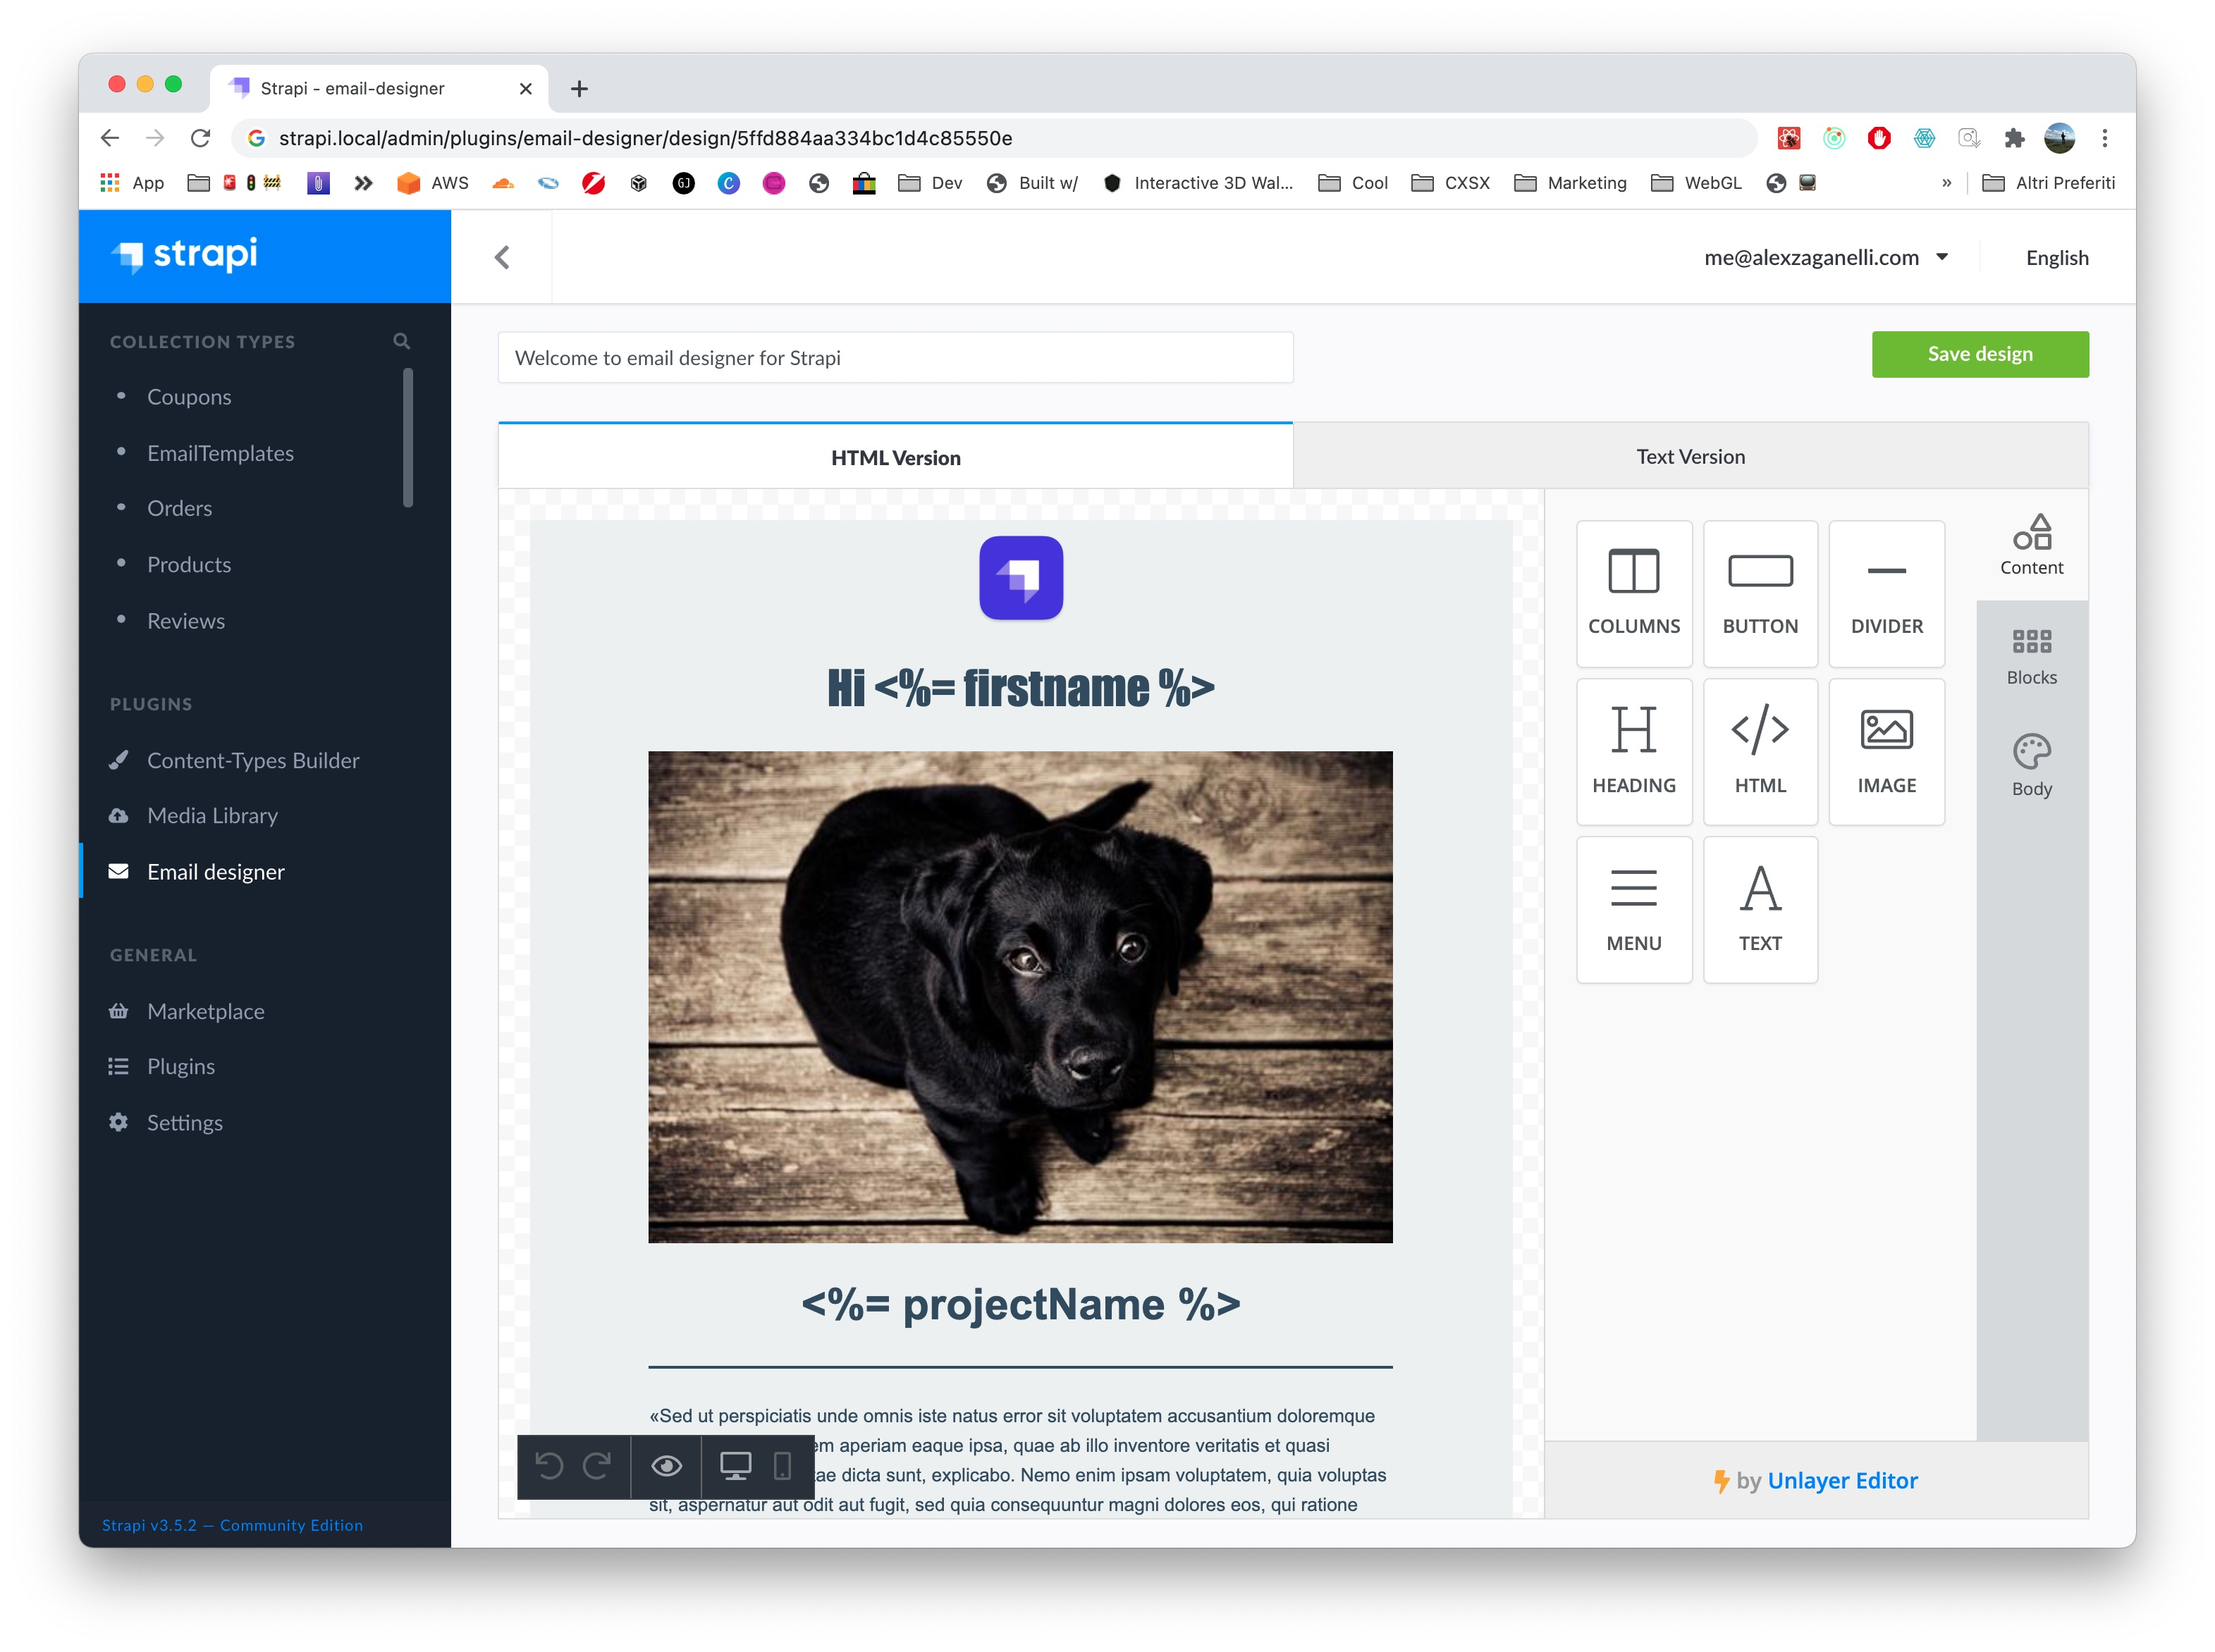
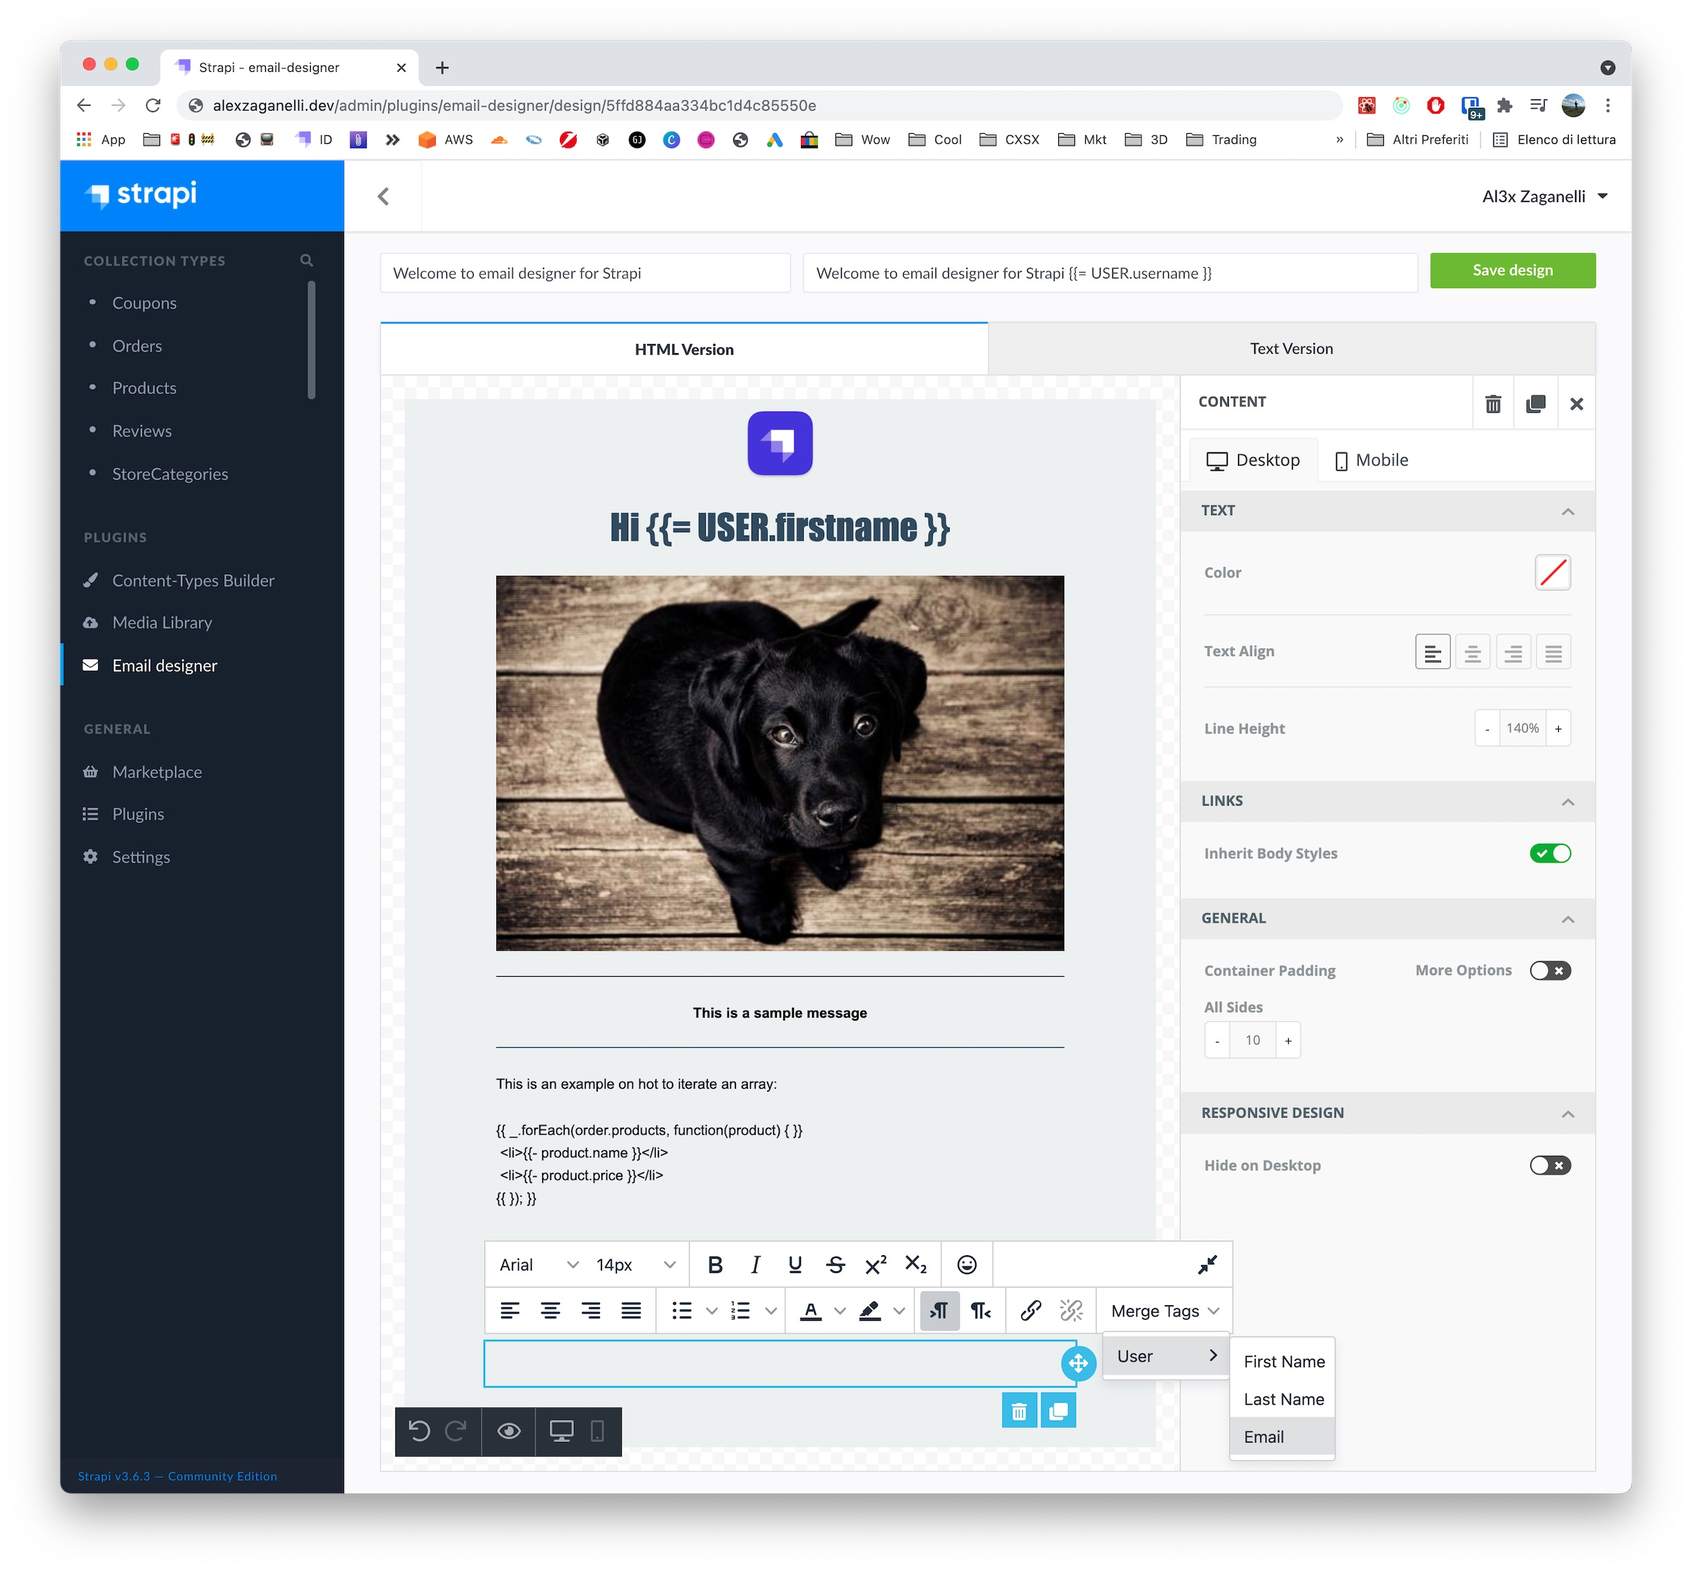
🔖 1.1.1

diff --git a/admin/src/containers/Designer/index.js b/admin/src/containers/Designer/index.js
@@ -167,13 +167,13 @@ const EmailDesigner = ({ isCore = false }) => {
 
       if (isMounted.current && editorConfigApi) {
         if (editorConfigApi.tools) {
-          setEditorTools((state) => merge(state, editorConfigApi.tools));
+          setEditorTools((state) => merge({}, state, editorConfigApi.tools));
         }
         if (editorConfigApi.options) {
-          setEditorOptions((state) => merge(state, editorConfigApi.options));
+          setEditorOptions((state) => merge({}, state, editorConfigApi.options));
         }
         if (editorConfigApi.appearance) {
-          setEditorAppearance((state) => merge(state, editorConfigApi.appearance));
+          setEditorAppearance((state) => merge({}, state, editorConfigApi.appearance));
         }
       }
 

diff --git a/README.md b/README.md
@@ -80,7 +80,7 @@ The **Email Designer** plugin should appear in the **Plugins** section of Strapi
 
 ## 💄 Usage
 
-1. Design your template with easy on the visual composer. For variables use [lodash templating language](https://lodash.com/docs/4.17.15#template). **You can leave the text version blank to automatically generate a text version of your email from the HTML version.**
+1. Design your template with easy on the visual composer. For variables use [lodash templating language](https://lodash.com/docs/4.17.15#template) with the double curly braces tags ( `{{` and `}}` ). **You can leave the text version blank to automatically generate a text version of your email from the HTML version.**
 
 Tips: in the template's body is possible to iterate array like this:
 
@@ -103,6 +103,7 @@ Tips: in the template's body is possible to iterate array like this:
         to: 'to@example.com', // required
         from: 'from@example.com', // optional if /config/plugins.js -> email.settings.defaultFrom is set
         replyTo: 'reply@example.com', // optional if /config/plugins.js -> email.settings.defaultReplyTo is set
+        attachments: [], // optional array of files
       },
       {
         templateId: 1, // required - you can get the template id from the admin panel
@@ -110,9 +111,9 @@ Tips: in the template's body is possible to iterate array like this:
       },
       {
         // this object must include all variables you're using in your email template
-        user: {
-          firstName: 'John',
-          lastName: 'Doe',
+        USER: {
+          firstname: 'John',
+          lastname: 'Doe',
         },
         order: {
           products: [
@@ -154,7 +155,7 @@ Complete installation requirements are exact same as for Strapi itself and can b
 
 ## 🔧 Configuration
 
-You can pass configuration options directly to the editor that is used by this plugin. To do so, in your `config/plugins.js` file of your project, configure the plugin like this:
+You can pass configuration options directly to the editor that is used by this plugin. To do so, in your `config/plugins.js` file of your project, configure the plugin like this example:
 
 ```javascript
 module.exports = () => ({
@@ -189,8 +190,17 @@ module.exports = () => ({
               value: "'Lato', Tahoma, Verdana, sans-serif",
               url: "https://fonts.googleapis.com/css?family=Lato",
             },
+            // ...
           ],
         },
+        mergeTags: [
+          {
+            name: 'Email',
+            value: '{{= USER.username }}',
+            sample: 'john@doe.com',
+          },
+          // ...
+        ]
       },
       appearance: {
         theme: "dark",
@@ -241,7 +251,7 @@ npm run cypress:open
 - [x] Import design feature
 - [x] Override Strapi's core email system feature
 - [x] Preview email with real data feature
-- [ ] Tags feature
+- [x] Tags feature
 - [ ] Custom components extension
 - [ ] Complete UI tests
 - [ ] i18n translations (help wanted!)
